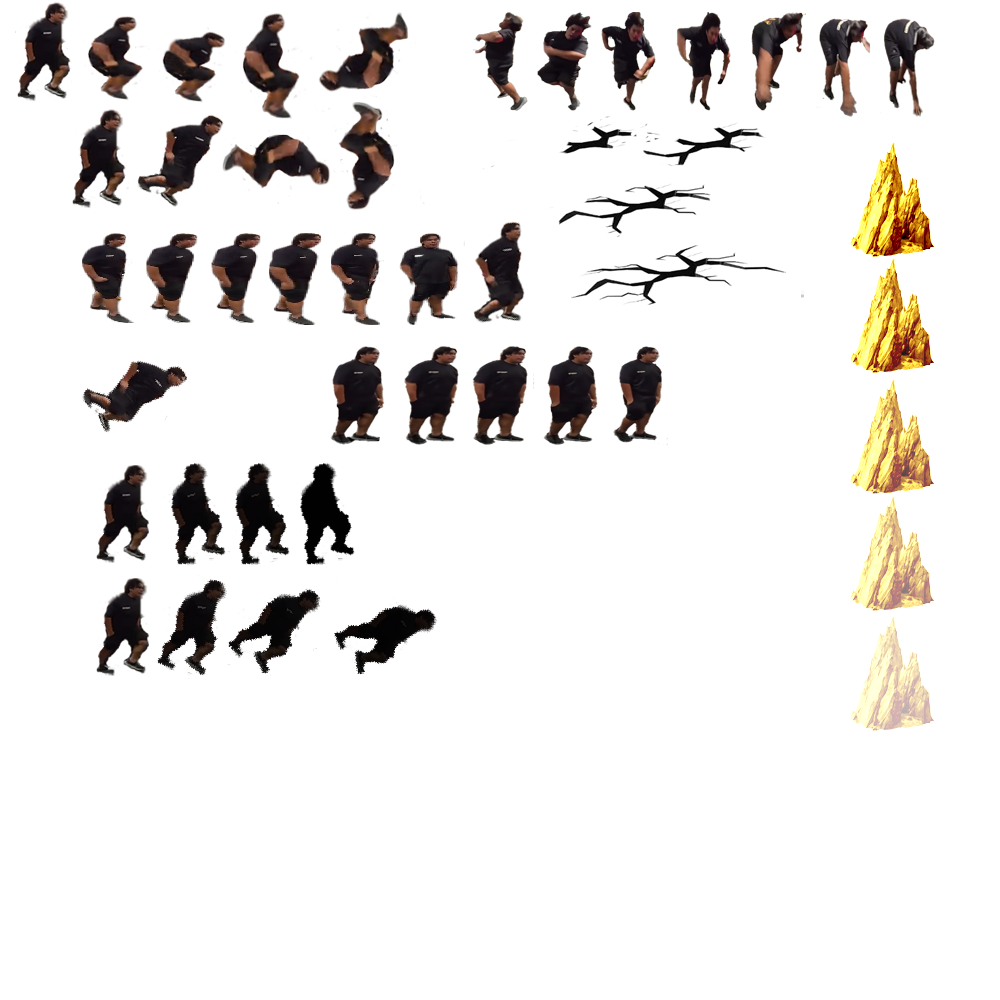
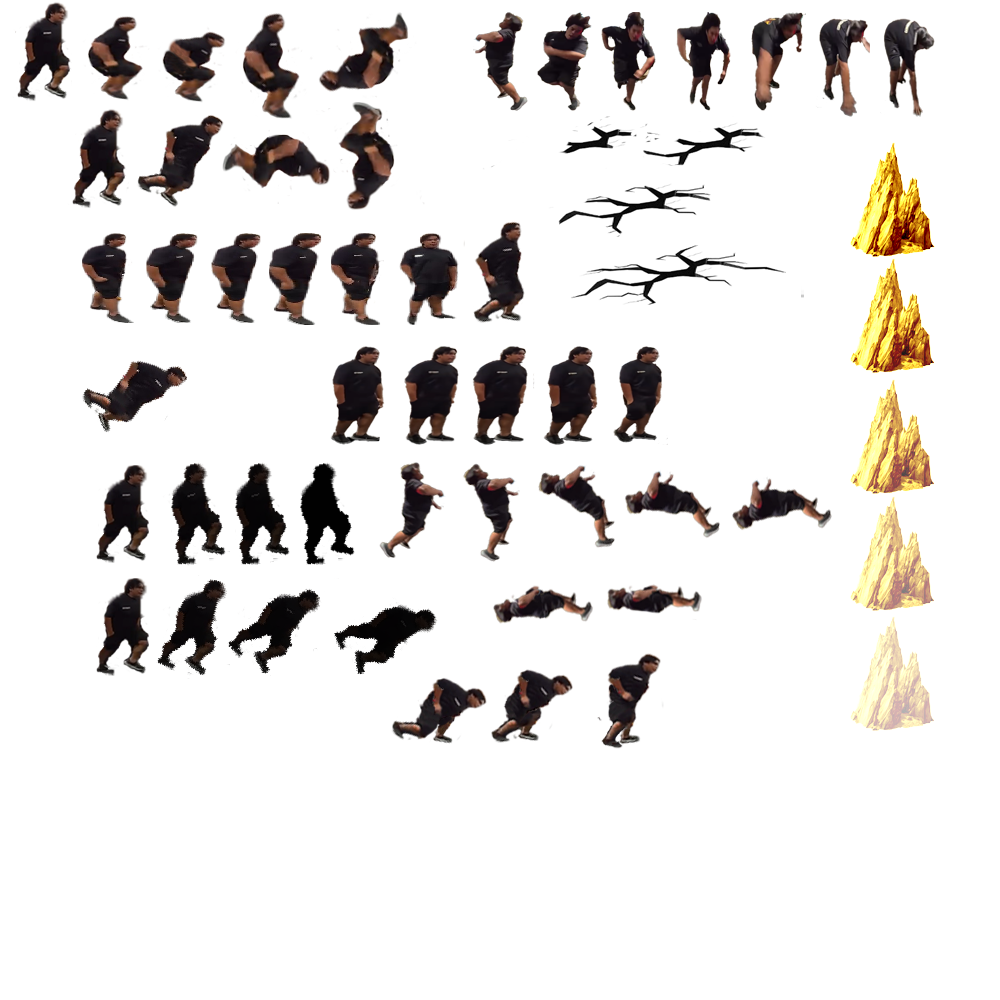
fix death and getup state golem nov 11 2025

diff --git a/src/entities/fighters/Golem.js b/src/entities/fighters/Golem.js
@@ -136,6 +136,20 @@ export class Golem extends Fighter {
              ['dodge2-3', [[[244, 579, 68, 104], [34,102]], PushBox.NULL,HurtBox.NULL]],
              ['dodge2-4', [[[337, 590, 88, 91], [44,89]], PushBox.NULL,HurtBox.NULL]],
 
+             //Death State
+                 ['death-1', [[[379, 461, 67, 97], [33,95]], PushBox.IDLE, HurtBox.IDLE]],
+                 ['death-2', [[[462, 463, 58, 99], [29,97]],PushBox.IDLE, HurtBox.IDLE]],
+                 ['death-3', [[[538, 464, 78, 84], [39,82]],PushBox.IDLE, HurtBox.IDLE]],
+                ['death-4', [[[624, 469, 97, 70], [48,68]],PushBox.IDLE, HurtBox.IDLE]],
+                ['death-5', [[[731, 476, 102, 55], [51,53]],PushBox.IDLE, HurtBox.IDLE]],
+                ['death-6', [[[492, 585, 102, 39], [51,37]],PushBox.IDLE, HurtBox.IDLE]],
+                ['death-7', [[[608, 585, 92, 28], [46,26]],PushBox.IDLE, HurtBox.IDLE]],
+
+                //GetUp State
+                 ['getUp-1', [[[392, 678, 94, 64], [47,62]], PushBox.IDLE, HurtBox.NULL]],
+                ['getUp-2', [[[491, 670, 81, 72], [40,70]], PushBox.IDLE, HurtBox.NULL]],
+                 ['getUp-3', [[[601, 653, 59, 95], [29,93]], PushBox.IDLE, HurtBox.NULL]],
+
              //Special 1 Death Impact
              ['special1-1', [[[473, 12, 55, 99], [28,97]], PushBox.NULL, HurtBox.NULL]],
              ['special1-2', [[[537, 12, 55, 99], [28,97]], PushBox.NULL, HurtBox.NULL]],
@@ -271,6 +285,27 @@ export class Golem extends Fighter {
                 ['special1-6', 60], ['special1-5', 60], ['special1-4', 60], ['special1-3', 90], ['special1-2', 60], ['special1-1', 60],
                 ['special1-1', FrameDelay.TRANSITION],
             ],
+
+             [FighterState.DEATH]:[
+                            ['death-1', 300], ['death-2', 120], ['death-3', 120], 
+                            ['death-4', 120], ['death-5', 120], ['death-6', 120], 
+                            ['death-7', 120],
+                            ['death-7', FrameDelay.TRANSITION],
+                        ],
+                        [FighterState.DIE]:[
+                            ['death-7', 7000],
+                            ['death-7', FrameDelay.TRANSITION],
+                        ],
+                        [FighterState.KNOCKUP]:[
+                            ['death-1', 100], ['death-2', 120], ['death-3', 120], 
+                            ['death-4', 120], ['death-5', 120], ['death-6', 130], 
+                            ['death-7', 120],
+                            ['death-7', FrameDelay.TRANSITION],
+                        ],
+                         [FighterState.GETUP]:[
+                            ['death-7', 300], ['getUp-1', 120], ['getUp-2', 100], ['getUp-3', 100],['forwards-5',85],
+                            ['forwards-5', FrameDelay.TRANSITION],
+                        ],
           
 
         };

diff --git a/src/entities/fighters/special/Rock.js b/src/entities/fighters/special/Rock.js
@@ -163,7 +163,7 @@ export class Rock {
            // this.direction *= -1;
            // this.directionY = 1;
             //opponent.position.y -= 30 * time.secondsPassed;
-            return;
+            
         }
 
         if (collisionState === FireballCollidedState.OPPONENT && this.canDealDamage) {

diff --git a/src/entities/fighters/Malupiton.js b/src/entities/fighters/Malupiton.js
@@ -607,6 +607,8 @@ export class Malupiton extends Fighter {
 
     if (fighter.skillNumber >= 0 && !fighter.skillConsumed) {
       this.gravity = 0;
+      this.velocity.y = 0;
+     // this.opponent.velocity.y = 0;
       this.position.y -= 0.8;
       this.changeState(FighterState.HYPERSKILL_1);
 

diff --git a/src/scenes/Battlescene.js b/src/scenes/Battlescene.js
@@ -270,8 +270,8 @@ handleFlash() {
         }
     // Let AI control fighter 1 (index 1)
     if(this.statsBar.enemyStart === true){
-      // this.enemyAI.update(time);
-       //  this.enemyAI2.update(time);
+      //this.enemyAI.update(time);
+         this.enemyAI2.update(time);
     }
    
 
